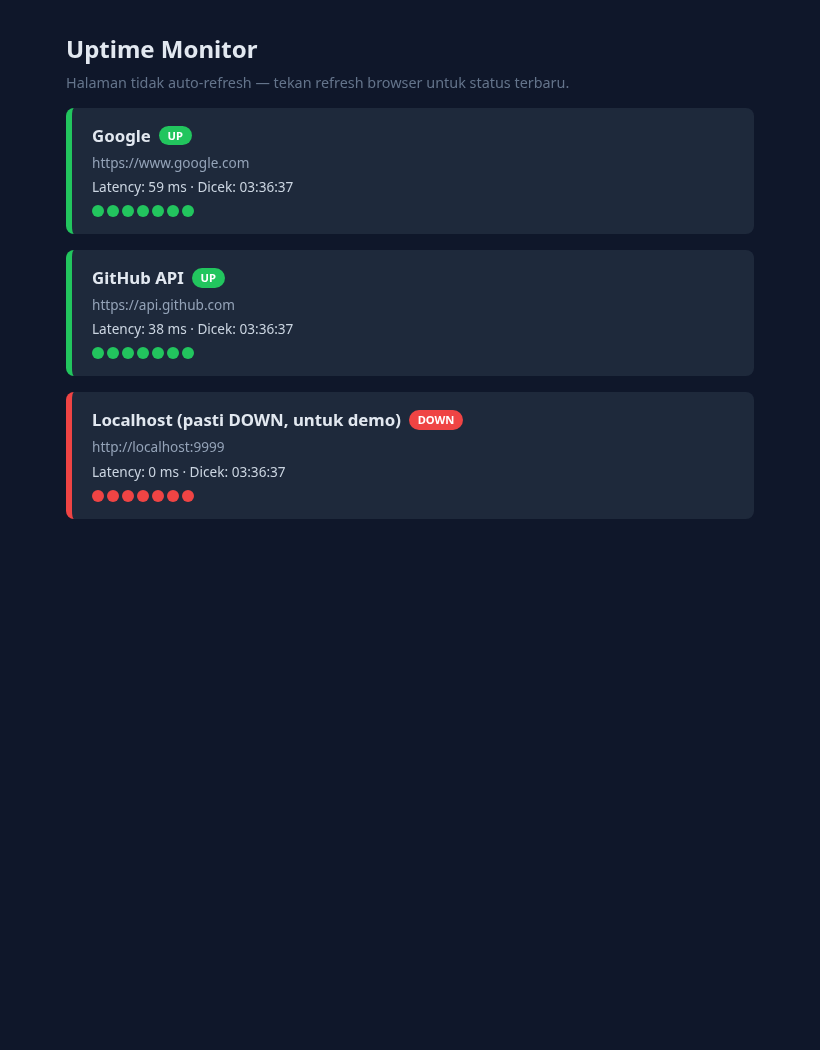
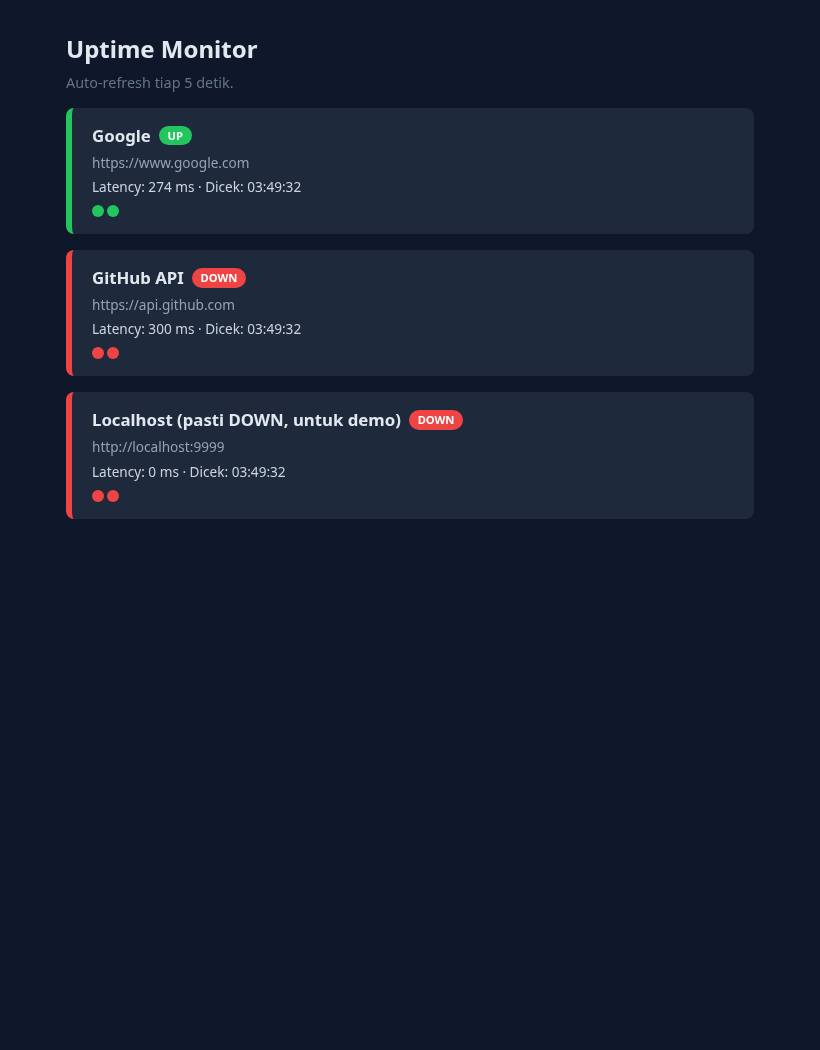
feat: dashboard auto-refresh every 5 seconds

diff --git a/templates/index.html b/templates/index.html
@@ -3,6 +3,7 @@
 <head>
   <meta charset="utf-8">
   <meta name="viewport" content="width=device-width, initial-scale=1">
+  <meta http-equiv="refresh" content="5">
   <title>Uptime Monitor</title>
   <style>
     * { box-sizing: border-box; }
@@ -34,7 +35,7 @@
 </head>
 <body>
   <h1>Uptime Monitor</h1>
-  <p class="sub">Halaman tidak auto-refresh — tekan refresh browser untuk status terbaru.</p>
+  <p class="sub">Auto-refresh tiap 5 detik.</p>
 
   {{range .Targets}}
   <div class="card {{if .Up}}up{{else}}down{{end}}">
